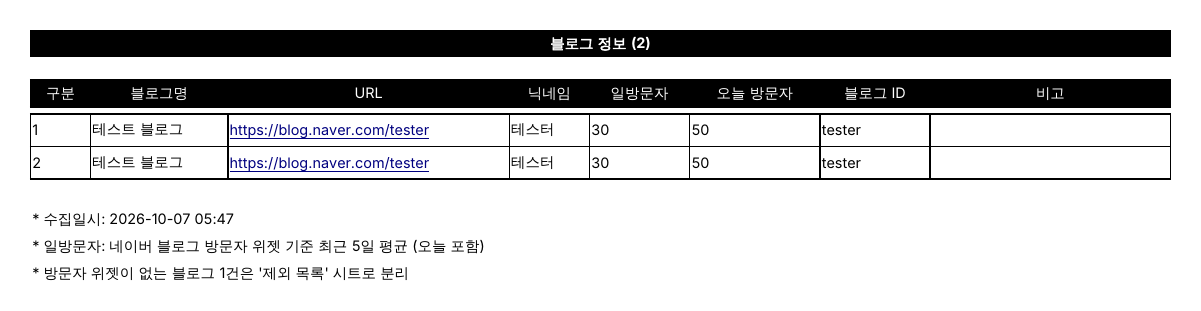
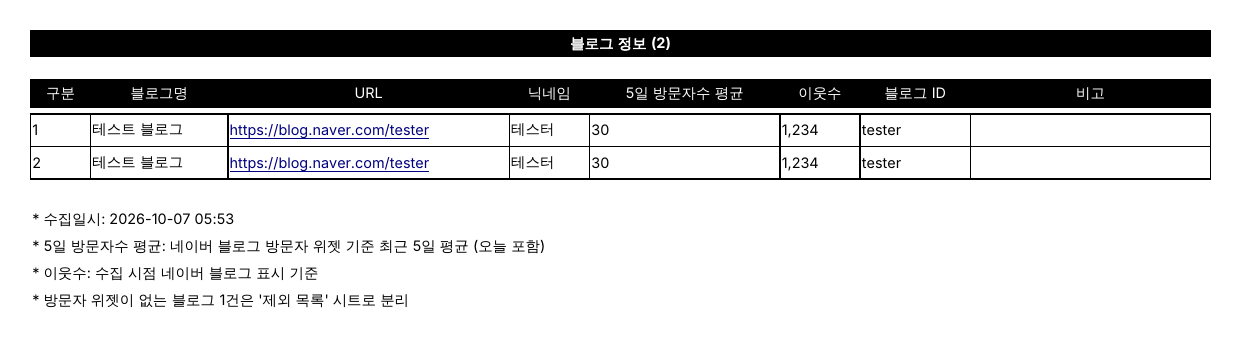
블로그 정보: 5일 방문자수 평균 · 이웃수 추가, 오늘 방문자 제거
- '일방문자' 열 이름을 '5일 방문자수 평균'으로, 최근 5일만 평균
- 이웃수: PC 화면 -> 페이지 내부 JSON -> 화면 글자 -> 모바일 블로그 API
  -> 모바일 블로그 화면('N명의 이웃') 순으로 시도, 서로이웃 숫자는 무시
- 오늘 방문자 열 제거
- 엑셀 주석에 5일 평균/이웃수 기준 명시

Claude-Session: https://claude.ai/code/session_01Y6A6b4sYNtttbxogfahcn3

Changed region(s): [[0.0, 0.2315, 0.9858, 0.5788], [0.0, 0.6077, 0.4621, 0.926], [0.0308, 0.0868, 0.9858, 0.2026]]

diff --git a/naver_crawler/crawlers.py b/naver_crawler/crawlers.py
@@ -23,6 +23,7 @@ from naver_crawler.http import NaverHttp
 from naver_crawler.parsing import (
     BlogRef,
     CafeRef,
+    buddy_count_from_text,
     club_id_from_html,
     find_dict,
     find_key,
@@ -461,12 +462,66 @@ def _visitor_counts(ctx: Context, blog_id: str, page: Page | None) -> list[tuple
     return counts
 
 
+BUDDY_KEYS = ["subscriberCount", "buddyCount", "neighborCount", "followerCount"]
+MOBILE_BLOG_APIS = (
+    "https://m.blog.naver.com/api/blogs/{blog_id}",
+    "https://m.blog.naver.com/rego/BlogInfo.naver?blogId={blog_id}",
+)
+
+
+class _BlogApi:
+    """모바일 블로그 정보 API 응답 (필요할 때 한 번만 요청)."""
+
+    def __init__(self, ctx: Context, blog_id: str):
+        self.ctx, self.blog_id = ctx, blog_id
+        self._data: list | None = None
+
+    def data(self) -> list:
+        if self._data is None:
+            self._data = []
+            for api in MOBILE_BLOG_APIS:
+                found = self.ctx.api_json(api.format(blog_id=self.blog_id), f"https://m.blog.naver.com/{self.blog_id}")
+                if found is not None:
+                    self._data.append(found)
+        return self._data
+
+    def find(self, keys: list[str]):
+        for data in self.data():
+            value = find_key(data, keys)
+            if value not in (None, ""):
+                return value
+        return None
+
+
 def _blog_profile_api(ctx: Context, blog_id: str) -> tuple[str | None, str | None]:
     """(블로그명, 닉네임) - 화면에서 못 찾았을 때 모바일 API 로."""
-    data = ctx.api_json(f"https://m.blog.naver.com/api/blogs/{blog_id}", f"https://m.blog.naver.com/{blog_id}")
-    if data is None:
-        return None, None
-    return find_key(data, ["blogName"]), find_key(data, ["nickName", "nickname"])
+    api = _BlogApi(ctx, blog_id)
+    return api.find(["blogName"]), api.find(["nickName", "nickname"])
+
+
+def _buddy_count(ctx: Context, page: Page, sel: dict, api: _BlogApi) -> int | None:
+    """이웃수: PC 화면 → 페이지 내부 JSON → 화면 글자 → 모바일 API → 모바일 블로그 화면."""
+    buddies = _count(page.text(sel.get("buddies", []), need_digit=True), ["이웃"])
+    if buddies is None:
+        for resp in page.captured_json():
+            buddies = _first(buddies, parse_count(find_key(resp.data, BUDDY_KEYS)))
+    if buddies is None:
+        buddies = _first(buddy_count_from_text(page.body_text()), buddy_count_from_text(page.top_body_text()))
+    if buddies is None:
+        buddies = parse_count(api.find(BUDDY_KEYS))
+    if buddies is None:
+        page.open(f"https://m.blog.naver.com/{api.blog_id}", [])
+
+        def mobile() -> int | None:
+            for resp in page.captured_json():
+                found = parse_count(find_key(resp.data, BUDDY_KEYS))
+                if found is not None:
+                    return found
+            return buddy_count_from_text(page.body_text())
+
+        page.wait_until(lambda: mobile() is not None, timeout=min(8, ctx.settings.page_timeout))
+        buddies = mobile()
+    return buddies
 
 
 def crawl_blog_info(ctx: Context, url: str) -> RowResult:
@@ -476,6 +531,7 @@ def crawl_blog_info(ctx: Context, url: str) -> RowResult:
     if not ref.blog_id:
         return RowResult({}, STATUS_FAIL, "주소에서 블로그 ID 를 찾지 못했습니다.")
     blog_id = ref.blog_id
+    api = _BlogApi(ctx, blog_id)
     page = ctx.page()
     page.open(f"https://blog.naver.com/{blog_id}", sel.get("frames", ["mainFrame"]))
     # 프로필 위젯이 없는 블로그도 있으므로 오래 붙잡지 않는다
@@ -488,15 +544,16 @@ def crawl_blog_info(ctx: Context, url: str) -> RowResult:
             nickname = _first(nickname, find_key(resp.data, ["nickName", "nickname"]))
             name = _first(name, find_key(resp.data, ["blogName"]))
     if not nickname or not name:
-        api_name, api_nick = _blog_profile_api(ctx, blog_id)
-        nickname, name = _first(nickname, api_nick), _first(name, api_name)
+        nickname = _first(nickname, api.find(["nickName", "nickname"]))
+        name = _first(name, api.find(["blogName"]))
 
-    counts = _visitor_counts(ctx, blog_id, page)
+    buddies = _buddy_count(ctx, page, sel, api)
+    counts = _visitor_counts(ctx, blog_id, page)[-5:]  # 최근 5일
     values = {
         "name": name,
         "nickname": nickname,
         "avg": int(sum(c for _, c in counts) / len(counts)) if counts else None,
-        "today": counts[-1][1] if counts else None,
+        "buddies": buddies,
         "blog_id": blog_id,
     }
     if not counts and (name or nickname):
@@ -627,17 +684,20 @@ TASKS: tuple[TaskSpec, ...] = (
     TaskSpec(
         "blog_info",
         "블로그 정보",
-        "블로그 주소로 블로그명 · 닉네임 · 일방문자(최근 5일 평균)를 가져옵니다.",
+        "블로그 주소로 블로그명 · 닉네임 · 5일 방문자수 평균 · 이웃수를 가져옵니다.",
         "https://blog.naver.com/블로그아이디\n한 줄에 하나씩 입력",
         (
             Column("name", "블로그명", width=26, required=True),
             Column("nickname", "닉네임", width=16, required=True),
-            Column("avg", "일방문자", "int", width=9, required=True),
-            Column("today", "오늘 방문자", "int", width=12),
+            Column("avg", "5일 방문자수 평균", "int", width=12, required=True),
+            Column("buddies", "이웃수", "int", width=9, required=True),
             Column("blog_id", "블로그 ID", width=16),
         ),
         crawl_blog_info,
-        ("* 일방문자: 네이버 블로그 방문자 위젯 기준 최근 5일 평균 (오늘 포함)",),
+        (
+            "* 5일 방문자수 평균: 네이버 블로그 방문자 위젯 기준 최근 5일 평균 (오늘 포함)",
+            "* 이웃수: 수집 시점 네이버 블로그 표시 기준",
+        ),
     ),
     TaskSpec(
         "blog_post",

diff --git a/tests/test_excel.py b/tests/test_excel.py
@@ -66,10 +66,10 @@ def test_multi_sheet_no_summary(tmp_path):
 def test_no_widget_blogs_are_excluded(tmp_path):
     task = TASK_BY_ID["blog_info"]
     rows = [
-        {"url": "https://blog.naver.com/a", "name": "A", "nickname": "a", "avg": 100, "today": 50, "status": "완료"},
-        {"url": "https://blog.naver.com/b", "name": "B", "nickname": "b", "avg": None, "today": None,
+        {"url": "https://blog.naver.com/a", "name": "A", "nickname": "a", "avg": 100, "buddies": 5868, "status": "완료"},
+        {"url": "https://blog.naver.com/b", "name": "B", "nickname": "b", "avg": None, "buddies": 12,
          "status": "위젯없음", "message": "방문자 위젯이 없는 블로그"},
-        {"url": "https://blog.naver.com/c", "name": "C", "nickname": "c", "avg": 300, "today": 10, "status": "완료"},
+        {"url": "https://blog.naver.com/c", "name": "C", "nickname": "c", "avg": 300, "buddies": 319000, "status": "완료"},
     ]
     sheet = SheetData(task.title, task.description, task.columns, rows, task.notes)
     wb = load_workbook(export_xlsx(tmp_path / "blog.xlsx", [sheet], WHEN))
@@ -77,12 +77,14 @@ def test_no_widget_blogs_are_excluded(tmp_path):
     ws = wb["블로그 정보"]
     assert ws.cell(TITLE_ROW, 2).value == "블로그 정보 (2)"
     headers = [ws.cell(HEADER_ROW, c).value for c in range(2, 10)]
-    assert headers == ["구분", "블로그명", "URL", "닉네임", "일방문자", "오늘 방문자", "블로그 ID", "비고"]
+    assert headers == ["구분", "블로그명", "URL", "닉네임", "5일 방문자수 평균", "이웃수", "블로그 ID", "비고"]
+    assert ws.cell(FIRST_DATA_ROW + 1, 7).value == 319000
     assert [ws.cell(r, 4).value for r in (FIRST_DATA_ROW, FIRST_DATA_ROW + 1)] == [
         "https://blog.naver.com/a", "https://blog.naver.com/c"]
-    notes = [ws.cell(r, 2).value for r in range(FIRST_DATA_ROW + 3, FIRST_DATA_ROW + 6)]
-    assert notes[1].startswith("* 일방문자:")
-    assert "1건은 '제외 목록'" in notes[2]
+    notes = [ws.cell(r, 2).value for r in range(FIRST_DATA_ROW + 3, FIRST_DATA_ROW + 7)]
+    assert notes[1].startswith("* 5일 방문자수 평균:")
+    assert notes[2].startswith("* 이웃수:")
+    assert "1건은 '제외 목록'" in notes[3]
 
     excluded = wb["제외 목록"]
     assert excluded.cell(TITLE_ROW, 2).value == "제외 목록 (1)"

diff --git a/tests/test_browser_flows.py b/tests/test_browser_flows.py
@@ -96,7 +96,31 @@ def test_blog_info_and_no_widget_does_not_stop(engine):
     assert no_widget.status == "위젯없음"
     assert no_widget.values["name"] == "위젯 없는 블로그"
     assert ok.status == "완료", ok.message
-    assert ok.values == {"name": "테스트 블로그", "nickname": "테스터", "avg": 30, "today": 50, "blog_id": "tester"}
+    # PC 화면의 '이웃 1,234명' (서로이웃 23명은 무시)
+    assert ok.values == {"name": "테스트 블로그", "nickname": "테스터", "avg": 30, "buddies": 1234, "blog_id": "tester"}
+
+
+def test_blog_buddy_count_fallbacks(engine):
+    visitors = '<visitorcnts><visitorcnt id="20261006" cnt="100"/><visitorcnt id="20261007" cnt="300"/></visitorcnts>'
+    http = FakeHttp({
+        "https://blog.naver.com/NVisitorgp4Ajax.nhn": visitors,
+        "https://m.blog.naver.com/api/blogs/apiblog": '{"isSuccess": true, "result": {"subscriberCount": 5868}}',
+    })
+    from_api, from_mobile = run(engine, "blog_info",
+                                ["https://blog.naver.com/apiblog", "https://blog.naver.com/mobileblog"], http)
+    assert from_api.status == "완료", from_api.message
+    assert from_api.values["buddies"] == 5868          # 모바일 블로그 API
+    assert from_mobile.status == "완료", from_mobile.message
+    assert from_mobile.values["buddies"] == 319000     # 모바일 화면 '31.9만명의 이웃'
+    assert from_mobile.values["avg"] == 200
+
+
+def test_blog_visitor_average_uses_last_five_days(engine):
+    days = [10, 20, 30, 40, 50, 60, 70]
+    xml = "".join(f'<visitorcnt id="2026100{i}" cnt="{c}"/>' for i, c in enumerate(days, 1))
+    (res,) = run(engine, "blog_info", ["https://blog.naver.com/tester"],
+                 FakeHttp({"https://blog.naver.com/NVisitorgp4Ajax.nhn": f"<visitorcnts>{xml}</visitorcnts>"}))
+    assert res.values["avg"] == 50  # (30+40+50+60+70)/5
 
 
 def test_blog_post(engine):

diff --git a/tests/fake_naver.py b/tests/fake_naver.py
@@ -97,6 +97,14 @@ ROUTES: dict[tuple[str, str], tuple[str, str]] = {
         '<iframe id="mainFrame" name="mainFrame" src="/PostList.naver?blogId=nowidget"></iframe>',
     )),
     ("blog.naver.com", "/PostList.naver"): (HTML, page("list", '<strong id="nickNameArea">테스터</strong>')),
+    ("blog.naver.com", "/PostList.naver?blogId=tester"): (HTML, page(
+        "list", '<strong id="nickNameArea">테스터</strong><p>서로이웃 23명</p><p>이웃 1,234명</p>')),
+    ("blog.naver.com", "/apiblog"): (HTML, page(
+        "API 블로그 : 네이버 블로그", '<iframe id="mainFrame" name="mainFrame" src="/PostList.naver?blogId=apiblog"></iframe>')),
+    ("blog.naver.com", "/mobileblog"): (HTML, page(
+        "모바일 블로그 : 네이버 블로그", '<iframe id="mainFrame" name="mainFrame" src="/PostList.naver?blogId=mobileblog"></iframe>')),
+    ("m.blog.naver.com", "/mobileblog"): (HTML, page("모바일", "<div>모바일 블로그</div><p>31.9만명의 이웃</p>")),
+    ("m.blog.naver.com", "/nowidget"): (HTML, page("모바일", "<p>12명의 이웃</p>")),
     # ---- 블로그 포스팅
     ("blog.naver.com", "/PostView.naver"): (HTML, page(
         "포스팅 제목 : 네이버 블로그",
@@ -125,8 +133,8 @@ ROUTES: dict[tuple[str, str], tuple[str, str]] = {
 class _Handler(BaseHTTPRequestHandler):
     def do_GET(self):  # noqa: N802
         host = (self.headers.get("Host") or "").split(":")[0]
-        path = urlparse(self.path).path
-        found = ROUTES.get((host, path))
+        parsed = urlparse(self.path)
+        found = ROUTES.get((host, f"{parsed.path}?{parsed.query}")) or ROUTES.get((host, parsed.path))
         if not found:
             self.send_response(404)
             self.end_headers()

diff --git a/naver_crawler/parsing.py b/naver_crawler/parsing.py
@@ -38,6 +38,21 @@ def regex_count(text: str | None, labels: Iterable[str]) -> int | None:
     return None
 
 
+_BUDDY_PATTERNS = (
+    re.compile(r"(\d[\d,]*(?:\.\d+)?\s*만?)\s*명의\s*이웃"),            # 31.9만명의 이웃
+    re.compile(r"(?<!서로)이웃\s*수?\s*[:：]?\s*(\d[\d,]*(?:\.\d+)?\s*만?)\s*명"),  # 이웃 1,234명
+)
+
+
+def buddy_count_from_text(text: str | None) -> int | None:
+    """블로그 화면 글자에서 이웃수를 읽는다. '서로이웃' 숫자는 무시."""
+    for pattern in _BUDDY_PATTERNS:
+        match = pattern.search(text or "")
+        if match:
+            return parse_count(match.group(1))
+    return None
+
+
 def normalize_url(raw: str) -> str | None:
     text = raw.strip().strip("\"'<>")
     if not text or text.startswith("#"):

diff --git a/tests/test_parsing.py b/tests/test_parsing.py
@@ -135,6 +135,15 @@ def test_club_id_from_html():
     assert club_id_from_html("nothing") is None
 
 
+def test_buddy_count_from_text():
+    from naver_crawler.parsing import buddy_count_from_text
+
+    assert buddy_count_from_text("블로그명\n31.9만명의 이웃") == 319000
+    assert buddy_count_from_text("서로이웃 23명 · 이웃 1,234명") == 1234
+    assert buddy_count_from_text("이웃추가") is None
+    assert buddy_count_from_text("서로이웃 23명") is None
+
+
 def test_strip_suffixes():
     assert strip_suffixes("내 블로그 : 네이버 블로그", [": 네이버 블로그"]) == "내 블로그"
     assert strip_suffixes("  ", [": 네이버 블로그"]) is None

diff --git a/naver_crawler/browser.py b/naver_crawler/browser.py
@@ -302,6 +302,15 @@ class Page:
         except WebDriverException:
             return ""
 
+    def top_body_text(self) -> str:
+        try:
+            self.driver.switch_to.default_content()
+            return self.driver.execute_script("return document.body ? document.body.innerText : ''") or ""
+        except WebDriverException:
+            return ""
+        finally:
+            self.enter_frame()
+
     def title(self) -> str:
         try:
             return self.driver.execute_script("return document.title") or ""

diff --git a/naver_crawler/selectors.py b/naver_crawler/selectors.py
@@ -90,6 +90,7 @@ DEFAULT_SELECTORS: dict[str, dict[str, list[str]]] = {
     "blog_info": {
         "frames": ["mainFrame"],
         "nickname": ["#nickNameArea", ".nick", "strong.nick", ".blog_author .nick", "[class*='nickname']"],
+        "buddies": ["#buddyCount", ".buddy_count", ".cnt_buddy", "[class*='buddy_cnt']"],
         "name": ["#blogTitleName", ".blog_title", "#blog-title", "[class*='blog_name']"],
     },
     "blog_post": {

diff --git a/README.md b/README.md
@@ -24,7 +24,7 @@
 | 카페 정보 | `cafe.naver.com/카페주소` | 카페명, 회원수, 카페 ID |
 | 카페 게시글 | `cafe.naver.com/카페주소/글번호` (신·구 주소 모두) | 제목, 닉네임, 조회수, 댓글수, 좋아요, 작성일 |
 | 카페 평균 조회수 | `cafe.naver.com/카페주소` | 전체글보기 N페이지(기본 10페이지 · 15개, 공지 제외) 평균 조회수 |
-| 블로그 정보 | `blog.naver.com/아이디` | 블로그명, 닉네임, 일방문자(최근 5일 평균), 오늘 방문자 |
+| 블로그 정보 | `blog.naver.com/아이디` | 블로그명, 닉네임, 5일 방문자수 평균, 이웃수 |
 | 블로그 포스팅 | `blog.naver.com/아이디/글번호` (모바일 주소 포함) | 제목, 닉네임, 공감수, 댓글수, 작성일 |
 | 지식iN | `kin.naver.com/qna/detail.naver?...` | 제목, 조회수 |
 
